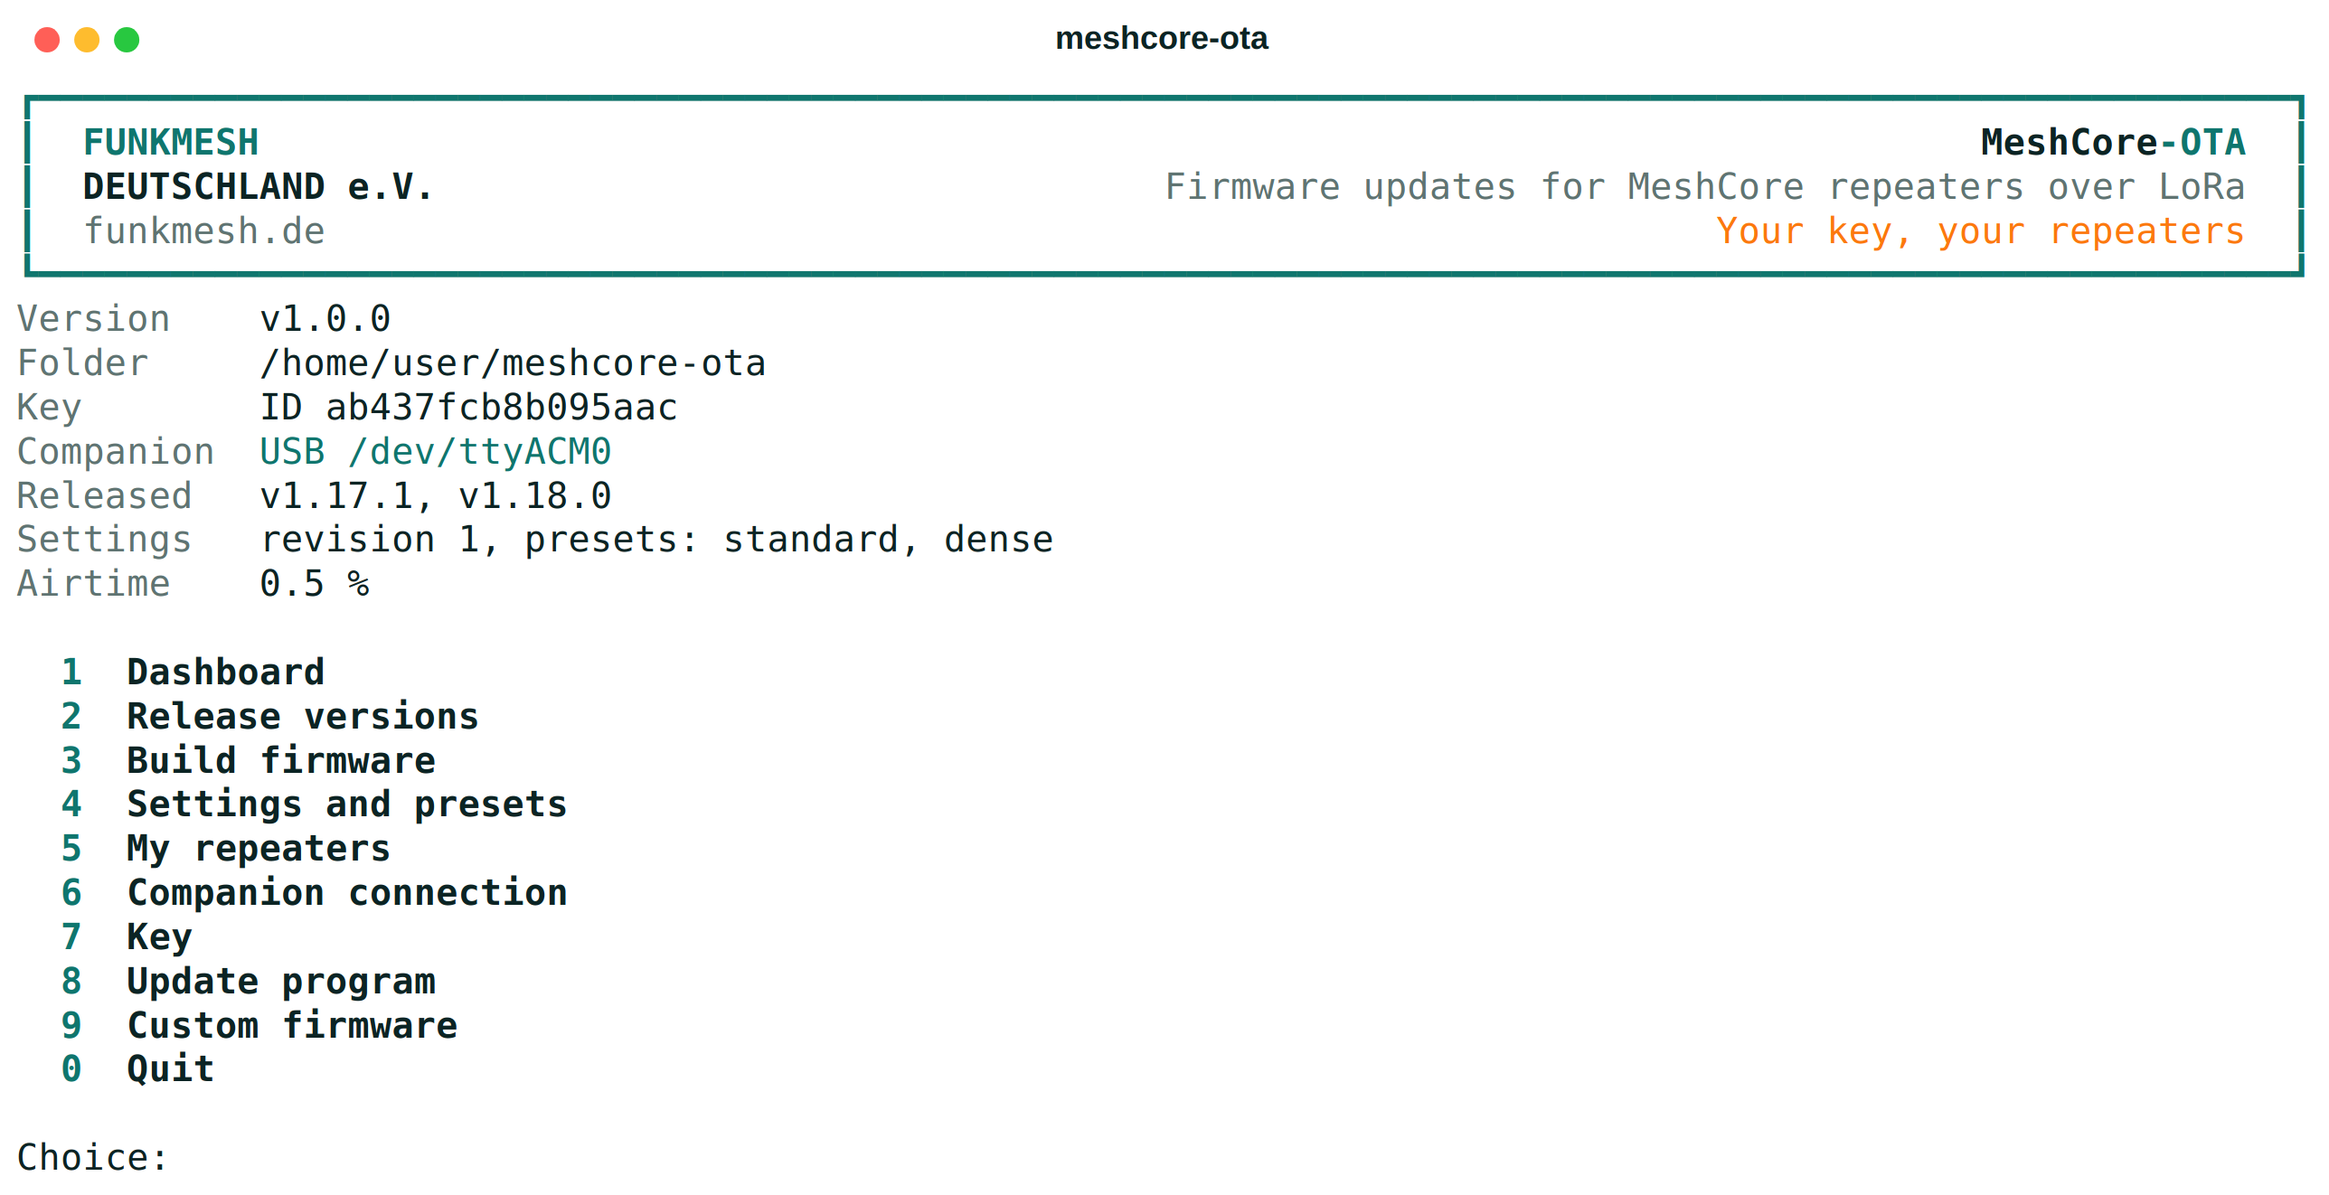
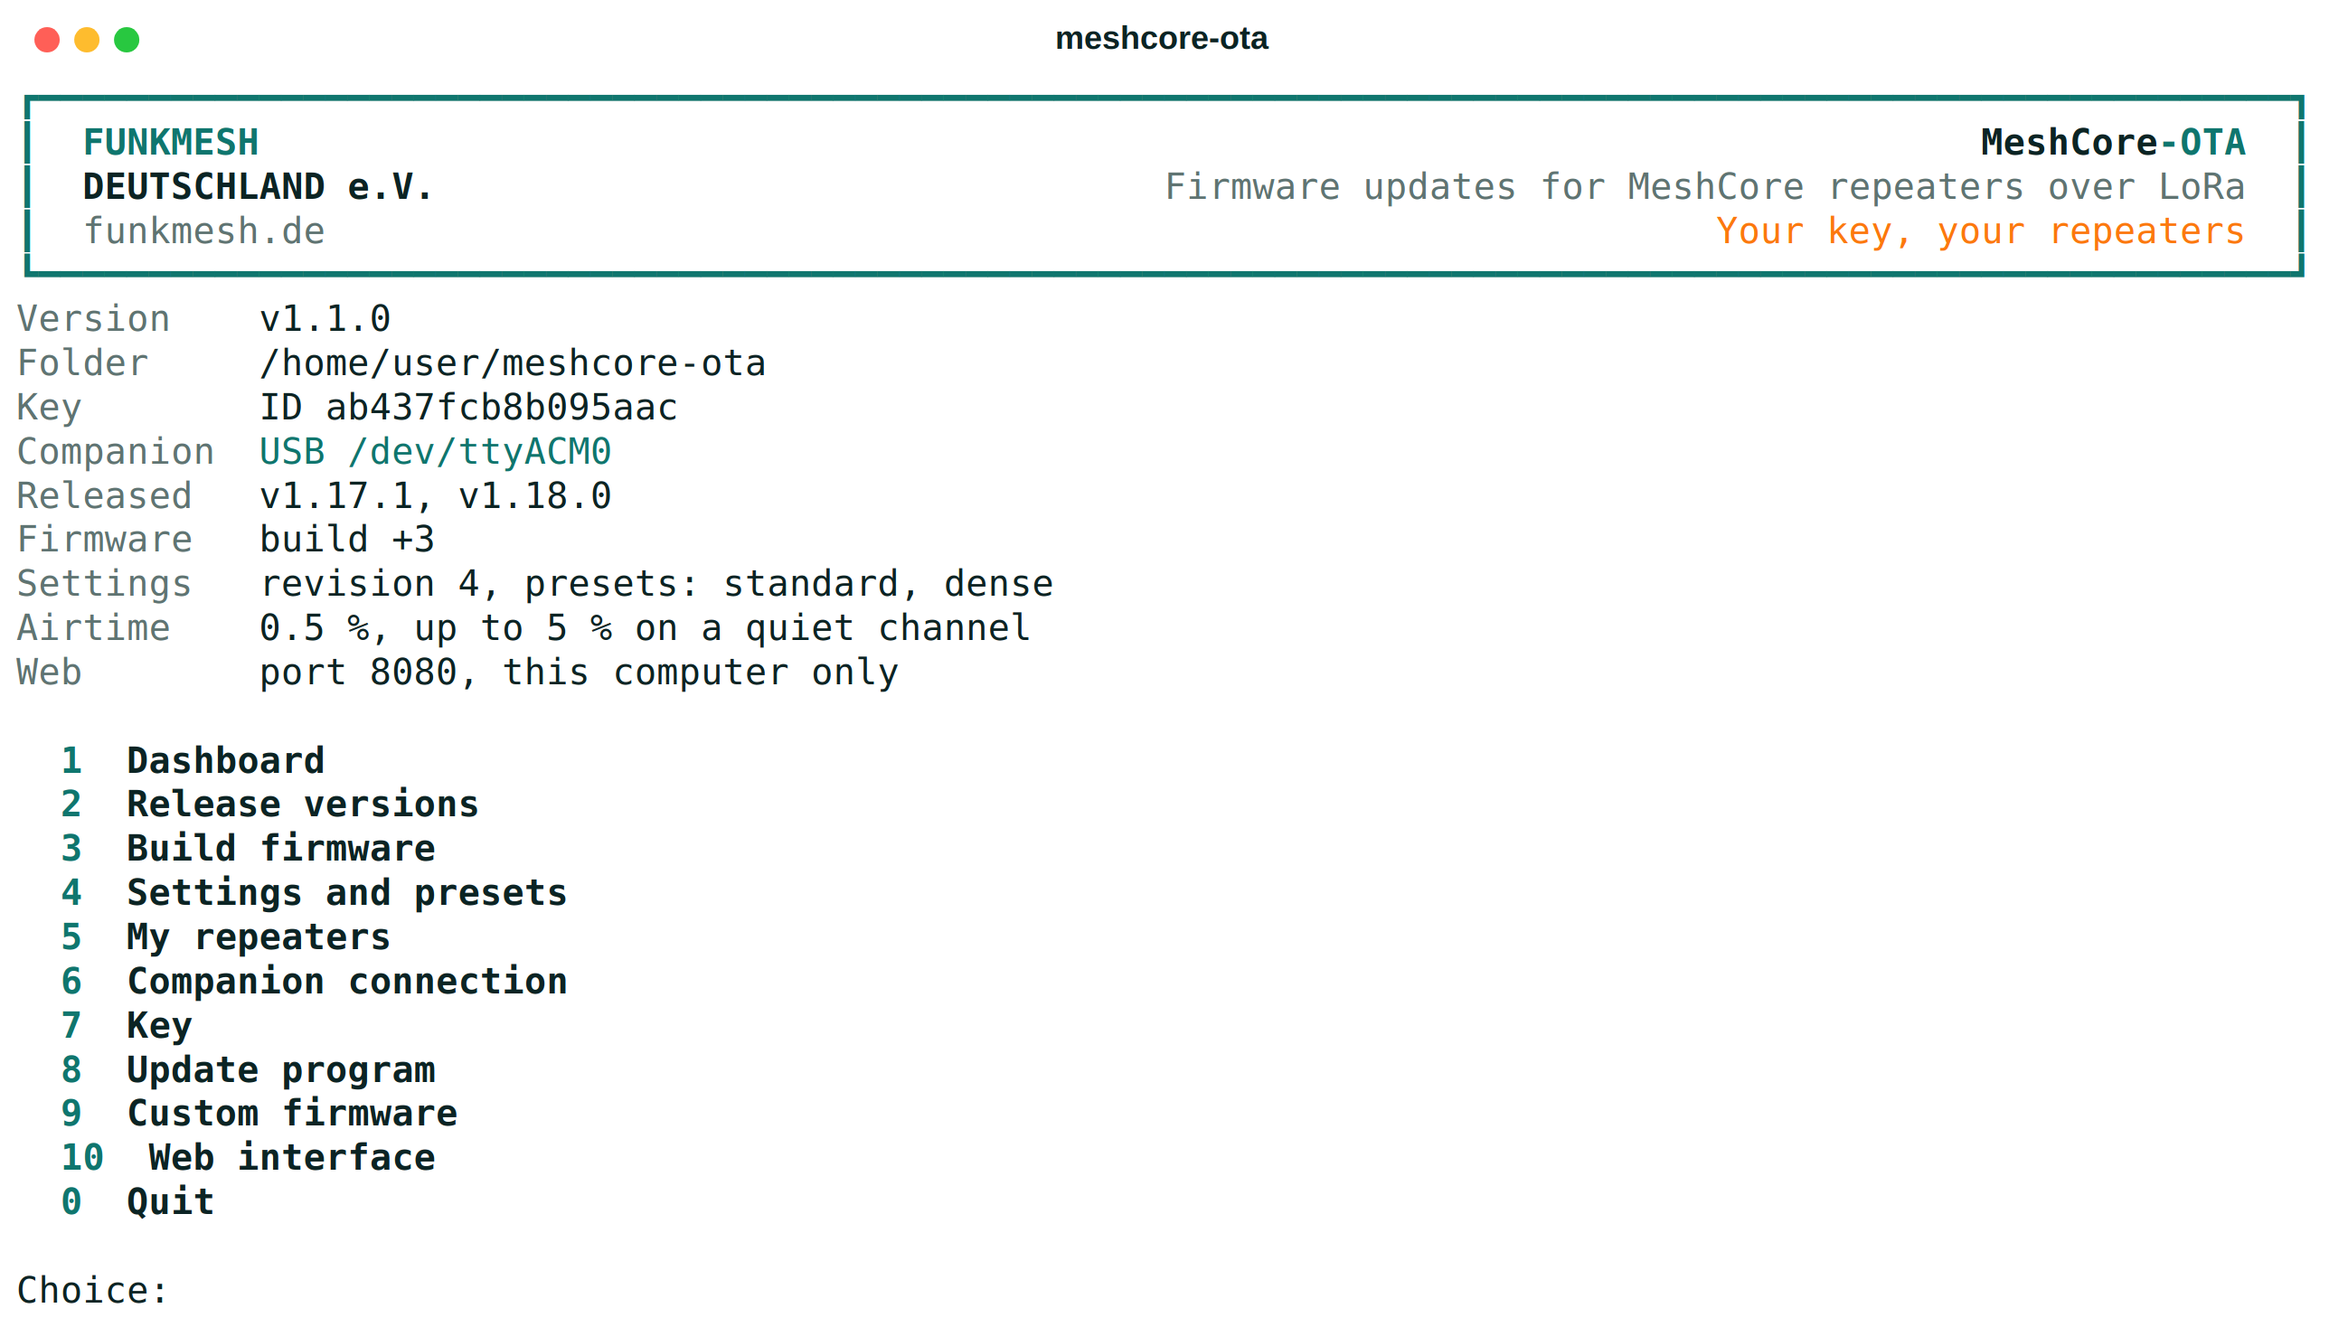
Bring the documentation and the menu screenshots up to date [skip ci]

diff --git a/docs/app.md b/docs/app.md
@@ -48,7 +48,7 @@ meshcore-ota --dir /home/user/meshcore-ota devices
 
 The device type is a short name that the firmware also reports over the air, for example `xiao_nrf52` or `rak4631`. For other devices it is derived from the name of the MeshCore environment (lower case, without `_repeater`, at most 15 characters).
 
-The name of a build is made up of the MeshCore version and the revision of the settings, for example `v1.18.0+3`. Test firmware additionally carries `-test`.
+The name of a build is made up of the MeshCore version and a build number, for example `v1.18.0+3`. The number rises when the key, the firmware source or the MeshCore-OTA part of the firmware changes, see [settings.md](settings.md). Test firmware additionally carries `-test`.
 
 Keep the folder `firmware`. A package only fits exactly the file that is running on the repeater. A new build of the same version can differ in small details and then no longer fits.
 
@@ -62,7 +62,7 @@ without a subcommand opens the menu. On first start the program creates the fold
 
 ![Main menu](images/menu.png)
 
-Above the menu are the version, the folder, the key ID, the companion port, the released versions, the revision of the settings and the airtime.
+Above the menu are the version, the folder, the key ID, the companion port, the released versions, the build number of the firmware, the revision of the settings with the names of the presets, the airtime with its upper limit and, if switched on, the port of the web interface.
 
 | Menu item | What it does |
 | --- | --- |
@@ -101,7 +101,7 @@ If the build is already present in `firmware/`, the program does not build it ag
 
 ### My repeaters
 
-Repeaters that have responded in the dashboard appear in the list automatically. Further ones can be added from the companion's contacts. For repeaters in this list that do not respond and whose route is unknown, the dashboard has the companion run a path discovery.
+Repeaters that have responded in the dashboard appear in the list automatically. Further ones can be added from the companion's contacts, or in the web interface with their ID, where a position for the map can be entered as well, see [web.md](web.md). For repeaters in this list that do not respond and whose route is unknown, the dashboard has the companion run a path discovery.
 
 ### Companion connection
 
@@ -136,7 +136,7 @@ For a repeater that is loading, the status shows the progress packet by packet:
 | `51 of 110 packets sent (46 %), 59 to go` | radio packets of this update that are sent and that are still waiting. The bar below follows this count |
 | `page 74 of 90: packet 5 of 8 sent` | the page in progress. A page whose difference does not fit into one packet is split into several. Small pages share a packet, the line then counts the pages sent |
 | `next packet in 3:53 min, about 4 h 58 min left` | time until the airtime credit allows the next packet, and the time for the remaining packets at the configured airtime |
-| `waiting for the repeater` | everything requested is sent. The repeater checks what it has and requests what is missing |
+| `all 110 packets sent, waiting for the repeater` | everything requested is sent. The repeater checks what it has and requests what is missing |
 
 The packet count rises again when a repeater reports packets as lost. The remaining time covers sending only. Checking, applying and the trial boot on the repeater come on top.
 

diff --git a/docs/devices.md b/docs/devices.md
@@ -37,6 +37,7 @@ The bootloader of the device, the SoftDevice and the MeshCore file system with t
 | Firmware (slot A) | from `0x28000`, 194 pages (776 KB) | from `0x29000`, 193 pages (772 KB) | from `0x2A000`, 192 pages (768 KB) |
 | Status and journal | `0xEA000`, 2 pages | `0xEA000`, 2 pages | `0xEA000`, 2 pages |
 | Keys, preset, lock | `0xEC000`, 1 page | `0xEC000`, 1 page | `0xEC000`, 1 page |
+| Settings package | file `/mcota_cfg` in the MeshCore file system | the same | the same |
 
 On the Xiao, the external flash on the board (2 MB) holds the new firmware (slot B), the scratch page for the swap and the package store. On devices without external flash, firmware and package store share slot A: the package is stored in the free space behind the running firmware.
 
@@ -44,7 +45,7 @@ On the Xiao, the external flash on the board (2 MB) holds the new firmware (slot
 
 ### With external flash
 
-The repeater writes every finished page to slot B. To apply, the loader swaps both slots page by page, with a journal. Afterwards the old firmware is in slot B and serves as the rollback copy. The package stays in the package store and is passed on after the update. Details on the loader are in [concept.md](concept.md).
+The repeater writes every finished page to slot B. To apply, the loader swaps both slots page by page, with a journal. Afterwards the old firmware is in slot B and serves as the rollback copy. The package stays in the package store and is passed on after the update. The store has three slots. Besides its own package the repeater keeps older ones for stragglers and collects packages for other device types, see [concept.md](concept.md). Details on the loader are in [concept.md](concept.md).
 
 ### Without external flash
 
@@ -77,6 +78,7 @@ MeshCore-OTA does not change the partition table of MeshCore and needs exactly t
 | package for passing on | the end of the other app partition |
 | status of the update | NVS, namespace `meshcore-ota`, entry `status` |
 | keys, preset, lock | NVS, namespace `meshcore-ota`, entry `local` |
+| settings package | file `/mcota_cfg` in the MeshCore file system |
 
 Everything MeshCore-OTA writes raw is in the other app partition, never in the running one.
 
@@ -88,7 +90,7 @@ For ESP32 the core is configured for at most 448 pages of firmware (`MCOTA_MAX_P
 | 1.875 MB | 1,792 KB | 128 KB |
 | 2.75 MB and more | 1,792 KB | 1 MB |
 
-With small app partitions only a small package fits into the store. Such a repeater can apply a larger update itself but cannot pass it on to neighbours (`ota info` shows `no-sharing`). If the firmware grows beyond the available space, the build aborts with a message.
+From 96 KB on the store has three slots, and the repeater also collects packages for other device types. With small app partitions only a small package fits into the store. Such a repeater can apply a larger update itself but cannot pass it on to neighbours (`ota info` shows `no-sharing`). If the firmware grows beyond the available space, the build aborts with a message.
 
 After a confirmed update the package is at the end of the partition that is now running. The new firmware copies it once to the end of the other partition and records that in NVS (entry `mirror`). From there it passes the package on.
 

diff --git a/docs/concept.md b/docs/concept.md
@@ -10,6 +10,7 @@ An operator updates their own MeshCore repeaters over LoRa without having to go 
 - The firmware of a repeater carries the public key of its operator inside it. A repeater has two key slots, the second one can be filled over USB.
 - A repeater accepts data of an update only once it has the complete manifest and the signature matches one of its keys.
 - Without a key a repeater does not react to any offer.
+- Settings packages are signed with the same key and checked the same way, see [settings.md](settings.md).
 - Keys can be set or removed on the repeater over USB only. Over the air the key changes only through a signed update, see [keys.md](keys.md).
 
 Consequences:
@@ -31,7 +32,7 @@ Consequences:
 ### Finding neighbours
 
 1. A repeater that has stored blocks of a verified update offers it by zero-hop. The offer states the device type, the size and checksum of the firmware the update starts from, the key ID and which pages it can deliver. Offers are sent at growing intervals, from 1 minute to 1 hour.
-2. A neighbour reacts only if everything matches: it trusts the key, has the same device type and is running exactly the source firmware.
+2. A neighbour reacts for itself only if everything matches: it trusts the key, has the same device type and is running exactly the source firmware. A repeater with a package store also reacts to an offer it cannot use itself, as long as it trusts the key, see [Carrying packages for others](#carrying-packages-for-others).
 3. The neighbour first fetches the signed manifest and verifies the signature. Only then does it accept data.
 4. The neighbour tells the provider which pages it is missing. The provider sends them one after another without each having to be requested individually.
 5. A repeater already offers what it has while it is still fetching the rest.
@@ -167,7 +168,7 @@ Devices without external flash rebuild the new firmware in place, see [devices.m
 
 ### Write boundaries
 
-In the internal flash the firmware writes only to the status area, to the page with keys and preset selection and, on devices without external flash, to the free area behind the running firmware. The loader writes only from slot A to the end of the status area. The bootloader of the device and the SoftDevice are outside of that. Recovery through the double reset therefore remains available.
+In the internal flash the firmware writes only to the status area, to the page with keys and preset selection and, on devices without external flash, to the free area behind the running firmware. The loader writes only from slot A to the end of the status area. The bootloader of the device and the SoftDevice are outside of that. Recovery through the double reset therefore remains available. A settings package is stored as a file through the file system of MeshCore.
 
 As long as the SoftDevice is active (Bluetooth, for example after `start ota`), the firmware does not write to the internal flash. MeshCore-OTA pauses for that time: it ignores its radio packets, refuses commands that write, and `ota info` shows `PAUSED`. Bluetooth stays active until the next restart.
 

diff --git a/docs/settings.md b/docs/settings.md
@@ -12,10 +12,10 @@ A preset is a named list of settings, for example `standard` for most repeaters 
 | --- | --- |
 | `tx` | transmit power in dBm |
 | `advert.interval` | advert to neighbours, interval in minutes (0 means off) |
-| `flood.advert.interval` | advert to the whole network, interval in hours (0 means off) |
-| `flood.max` | maximum number of hops for forwarded flood packets |
-| `flood.max.unscoped` | maximum number of hops for flood packets without a region |
-| `flood.max.advert` | maximum number of hops for forwarded adverts |
+| `flood.advert.interval` | advert to the whole mesh, interval in hours (0 means off) |
+| `flood.max` | highest number of hops for forwarded flood packets |
+| `flood.max.unscoped` | highest number of hops for flood packets without a region |
+| `flood.max.advert` | highest number of hops for forwarded adverts |
 | `af` | airtime factor (pause after each transmission) |
 | `rxdelay` | delay before forwarding, depending on the signal |
 | `txdelay` | random delay when forwarding flood packets |
@@ -23,7 +23,7 @@ A preset is a named list of settings, for example `standard` for most repeaters 
 | `multi.acks` | additional acknowledgements (0 or 1) |
 | `path.hash.mode` | length of the hops in routes (0 means 1 byte, 1 means 2 bytes, 2 means 3 bytes) |
 | `loop.detect` | loop detection (`off`, `minimal`, `moderate`, `strict`) |
-| `agc.reset.interval` | readjust the receiver, interval in seconds (0 means off) |
+| `agc.reset.interval` | reset the receiver gain, interval in seconds (0 means off) |
 
 With `n` any other setting can be entered in the menu under its name from the `set` command. Only settings with a value are set. Everything else stays on the repeater as it is.
 

diff --git a/docs/keys.md b/docs/keys.md
@@ -62,6 +62,7 @@ Things to note:
 - Keep `keys/retired-<id>.key` until all repeaters have been switched over. If the file is missing, no update can be signed any more for repeaters with the previous key.
 - Repeaters that cannot be reached over the air need the new firmware once over Bluetooth or USB (menu item 3).
 - A repeater passes on the update containing the key change only as long as it has not applied it itself. After that it no longer accepts the signature made with the previous key and discards the stored package. Neighbours that have not loaded it by then receive it from the computer.
+- Settings packages are signed with the new key from the change on. A repeater that still carries the previous key takes them over once it runs the firmware with the new key.
 - The change does not protect retroactively. As long as a repeater still carries the old firmware, it accepts updates signed with the previous key.
 
 ## Loss of the key
@@ -71,5 +72,5 @@ Without the private key no update can be signed any more. The repeaters then nee
 ## What the key does not protect
 
 - Access over USB allows any firmware, regardless of the key.
-- The admin password of a repeater is not sufficient to install firmware over the air. It does, however, allow the commands `ota apply`, `ota drop`, `ota preset` and `ota locksettings`.
+- The admin password of a repeater is not sufficient to install firmware or to distribute settings over the air. It does, however, allow the commands `ota apply`, `ota drop`, `ota preset` and `ota locksettings`.
 - The computer does not need a key to send a finished package (`meshcore-ota send`). Verification takes place on every repeater.

diff --git a/docs/update.md b/docs/update.md
@@ -73,4 +73,4 @@ pip install -r tools/requirements.txt pyinstaller
 python tools/build_app.py
 ```
 
-The result is in `dist/meshcore-ota` (on Windows `dist/meshcore-ota.exe`). Besides the program, the executable contains the sources for the firmware build: `core/`, `firmware/mcota/`, `firmware/boards/`, `firmware/esp32/`, `firmware/meshcore.patch` and `loader/nrf52/`.
+The result is in `dist/meshcore-ota` (on Windows `dist/meshcore-ota.exe`). Besides the program, the executable contains the sources for the firmware build: `core/`, `firmware/mcota/`, `firmware/boards/`, `firmware/esp32/`, `firmware/meshcore.patch` and `loader/nrf52/`, and the page of the web interface from `tools/web/`.

diff --git a/docs/web.md b/docs/web.md
@@ -37,7 +37,7 @@ The connection is not encrypted and the password travels with every request. Ope
 
 ### Network
 
-The map shows the computer and the repeaters at their positions. A dotted grey line is the route the computer uses to reach a repeater. A dashed orange line is a package on its way from one station to the next, with the progress next to it.
+The map shows the computer and the repeaters at their positions. A dotted grey line is the route the computer uses to reach a repeater. A dashed orange line is a package on its way from one station to the next, with the progress next to it. Once everything is sent the line turns solid.
 
 The colour of a repeater tells its state:
 

diff --git a/docs/protocol.md b/docs/protocol.md
@@ -25,7 +25,7 @@ A node with stored blocks announces what it can deliver.
 | 4 | ID of the sender, the first 4 bytes of its public key |
 | 8 | ID of the update, the first 8 bytes of the SHA-256 of the manifest |
 | 8 | ID of the signing key |
-| 4 | checksum of the device type, the first 4 bytes of the SHA-256 of its name |
+| 4 | checksum of the device type the update is for, the first 4 bytes of the SHA-256 of its name |
 | 4 | size of the source firmware |
 | 8 | beginning of the SHA-256 of the source firmware |
 | 2 | number of pages |

diff --git a/docs/README.md b/docs/README.md
@@ -31,5 +31,5 @@ MeshCore-OTA delivers firmware updates to MeshCore repeaters over LoRa. The shor
 | `firmware/` | integration with MeshCore (`mcota/`), patch for MeshCore, linker scripts, build script |
 | `loader/nrf52/` | loader for nRF52840 |
 | `sim/` | simulation and tests |
-| `tools/` | the program `meshcore-ota` |
+| `tools/` | the program `meshcore-ota`, with the page of the web interface in `tools/web/` |
 | `.github/workflows/` | tests, building the executables, releases |

diff --git a/docs/testing.md b/docs/testing.md
@@ -96,6 +96,8 @@ meshcore-ota load --port /dev/ttyACM0 v1-v2.mcota
 
 Expected on device A: `ota info` reports `ready v2` and all pages.
 
+Firmware built by the program carries a build number and only accepts a package with a higher one. `meshcore-ota update` sets it by itself. For a package made by hand with `pack`, `--build` has to be higher than the number of the running firmware.
+
 Or, with firmware from the program, over the air through a companion:
 
 ```
